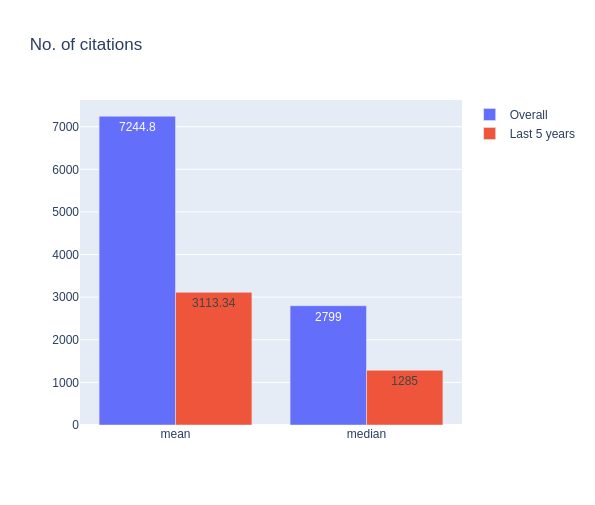
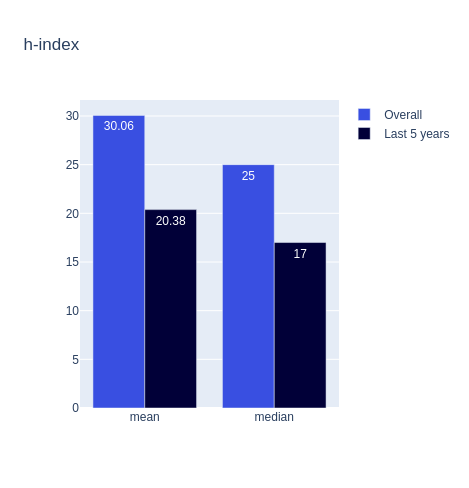
Redo plots

Changed region(s): [[0.0896, 0.1844, 0.9851, 0.8914], [0.0299, 0.0615, 0.2388, 0.123]]

diff --git a/data_statistics/compute_statistics.py b/data_statistics/compute_statistics.py
@@ -2,6 +2,7 @@ import numpy as np
 import pandas as pd
 import json
 import plotly.graph_objects as go
+from plotly.subplots import make_subplots
 
 file_count = 10
 
@@ -40,30 +41,25 @@ def compute_and_plot_statistics():
     for value in index_dict.values():
         word_frequencies.append(len(value))
 
+    colors = ['#394fe1', '#010038']
     # frequency distribution histogram
-    fig = go.Figure(data=[go.Histogram(x=word_frequencies)])
+    fig = go.Figure(data=[go.Histogram(x=word_frequencies, marker_color=colors[0])])
     fig.update_layout(title_text='No. of words with frequency k as a function of k', xaxis_title='k', yaxis_title='no. of words with frequency k')
     fig.show()
 
-    # pie chart 1
-    labels = ['Affiliation provided', 'Affiliation not provided']
+    # pie charts
+    fig = make_subplots(rows=1, cols=3, specs=[[{'type':'domain'}, {'type':'domain'}, {'type':'domain'}]], 
+                        subplot_titles=['Affiliation provided?', 'Email verified?', 'Homepage provided?'])
+    labels = ['Yes', 'No']
+    # pie 1
     values = [stats['total_affiliation_count'], stats['total_prof_count']-stats['total_affiliation_count']]
-    fig = go.Figure(data=[go.Pie(labels=labels, textinfo='value+percent', values=values, hole=.3)])
-    fig.update_layout(title_text='Percentage of professors who provided affiliation')
-    fig.show()
-
-    # pie chart 2
-    labels = ['Email verified', 'Email not verified']
+    fig.add_trace(go.Pie(labels=labels, textinfo='value+percent', values=values, hole=.3, marker_colors=colors, name='Affiliation provided?'), 1, 1)
+    # pie 2
     values = [stats['total_verified_count'], stats['total_prof_count']-stats['total_verified_count']]
-    fig = go.Figure(data=[go.Pie(labels=labels, textinfo='value+percent', values=values, hole=.3)])
-    fig.update_layout(title_text='Percentage of professors with email verified accounts')
-    fig.show()
-
-    # pie chart 3
-    labels = ['Homepage provided', 'Homepage not provided']
+    fig.add_trace(go.Pie(labels=labels, textinfo='value+percent', values=values, hole=.3, marker_colors=colors, name='Email verified?'), 1, 2)
+    # pie 3
     values = [stats['total_homepage_count'], stats['total_prof_count']-stats['total_homepage_count']]
-    fig = go.Figure(data=[go.Pie(labels=labels, textinfo='value+percent', values=values, hole=.3)])
-    fig.update_layout(title_text='Percentage of professors who provided homepage')
+    fig.add_trace(go.Pie(labels=labels, textinfo='value+percent', values=values, hole=.3, marker_colors=colors, name='Homepage provided?'), 1, 3)
     fig.show()
 
     # bar chart 1
@@ -71,8 +67,8 @@ def compute_and_plot_statistics():
     y_1 = [stats['cit_mean'], stats['cit_median']]
     y_2 = [stats['cit_5_mean'], stats['cit_5_median']]
     fig = go.Figure(data=
-            [go.Bar(name='Overall', x=statistic, y=y_1, text=y_1, textposition='auto'),
-            go.Bar(name='Last 5 years', x=statistic, y=y_2, text=y_2, textposition='auto')
+            [go.Bar(name='Overall', x=statistic, y=y_1, text=y_1, textposition='auto', marker_color=colors[0]),
+            go.Bar(name='Last 5 years', x=statistic, y=y_2, text=y_2, textposition='auto', marker_color=colors[1])
             ])
     fig.update_layout(title_text='No. of citations', barmode='group')
     fig.show()
@@ -81,8 +77,8 @@ def compute_and_plot_statistics():
     y_1 = [stats['h_ind_mean'], stats['h_ind_median']]
     y_2 = [stats['h_ind_5_mean'], stats['h_ind_5_median']]
     fig = go.Figure(data=
-            [go.Bar(name='Overall', x=statistic, y=y_1, text=y_1, textposition='auto'),
-            go.Bar(name='Last 5 years', x=statistic, y=y_2, text=y_2, textposition='auto')
+            [go.Bar(name='Overall', x=statistic, y=y_1, text=y_1, textposition='auto', marker_color=colors[0]),
+            go.Bar(name='Last 5 years', x=statistic, y=y_2, text=y_2, textposition='auto', marker_color=colors[1])
             ])
     fig.update_layout(title_text='h-index', barmode='group')
     fig.show()
@@ -91,8 +87,8 @@ def compute_and_plot_statistics():
     y_1 = [stats['i_ind_mean'], stats['i_ind_median']]
     y_2 = [stats['i_ind_5_mean'], stats['i_ind_5_median']]
     fig = go.Figure(data=
-            [go.Bar(name='Overall', x=statistic, y=y_1, text=y_1, textposition='auto'),
-            go.Bar(name='Last 5 years', x=statistic, y=y_2, text=y_2, textposition='auto')
+            [go.Bar(name='Overall', x=statistic, y=y_1, text=y_1, textposition='auto', marker_color=colors[0]),
+            go.Bar(name='Last 5 years', x=statistic, y=y_2, text=y_2, textposition='auto', marker_color=colors[1])
             ])
     fig.update_layout(title_text='i10-index', barmode='group')
     fig.show()

diff --git a/evaluation/evaluate.py b/evaluation/evaluate.py
@@ -224,15 +224,15 @@ for key in recallrate:
 query_and_method = ['Prof Name, Boolean', 'Prof Name, Phrase', 'Prof Affiliation, Boolean', 'Prof Affiliation, Phrase', 'Prof Paper, Boolean', 'Prof Paper, Phrase', 'Prof Paper, TF-IDF']
 ranks_value = [find_median(ranks['prof-name-boolean-retrieval']), find_median(ranks['prof-name-phrase-retrieval']), find_median(ranks['prof-affiliation-boolean-retrieval']), find_median(ranks['prof-affiliation-phrase-retrieval']), find_median(ranks['prof-paper-boolean-retrieval']), find_median(ranks['prof-paper-phrase-retrieval']), find_median(ranks['prof-paper-tf-idf'])]
 plt.figure(0)
-plt.bar(query_and_method, ranks_value, color="mediumpurple")
+plt.bar(query_and_method, ranks_value, color='#394fe1')
 plt.ylabel('Median Rank')
 plt.title('Median rank evaluation for '+str(number_of_professors_to_test)+' ground truths \n Rank represents the position at which desired result appears in search results')
 plt.xlabel('Search Query and Method Used')
 plt.xticks(fontsize=5,rotation=7)
 for i, v in enumerate(ranks_value):
     plt.annotate(str(v), xy=(i,v), xytext=(-7,7), textcoords='offset points')
-plt.savefig('median_rank.png', dpi=300)
-
+# plt.savefig('median_rank.png', dpi=300)
+plt.show()
 
 
 # Plotting the recall rate
@@ -244,15 +244,15 @@ recall_rate_10 = [recallrate['prof-name-boolean-retrieval-recall-rate-10'],recal
 x_1 = [2*i for i in range(len(recall_rate_5))]
 x_2 = [x + 2*width for x in x_1]
 plt.figure(1)
-plt.bar(x_1, recall_rate_5, color ='mediumpurple', width = 0.5, edgecolor ='white', label ='Recall Rate @ 5')
-plt.bar(x_2, recall_rate_10, color ='darkblue', width = 0.5, edgecolor ='white', label ='Recall Rate @ 10')
+plt.bar(x_1, recall_rate_5, color ='#394fe1', width = 0.5, edgecolor ='white', label ='Recall Rate @ 5')
+plt.bar(x_2, recall_rate_10, color ='#010038', width = 0.5, edgecolor ='white', label ='Recall Rate @ 10')
 plt.ylabel('Recall Rate')
 plt.title('Recall rate evaluation for '+str(number_of_professors_to_test)+' ground truths \n Recall rate (R@X) represents % of time desired results appeared in top X')
 plt.xlabel('Search Query and Method Used')
 plt.xticks([2*i + width for i in range(len(recall_rate_5))],query_and_method, fontsize=5, rotation=7)
 plt.legend(['Recall Rate @ 5', 'Recall Rate @ 10'])
-plt.savefig('recall_rate.png', dpi=300)
-
+# plt.savefig('recall_rate.png', dpi=300)
+plt.show()
 
 # Plotting the Average Query Time
 
@@ -267,11 +267,12 @@ def get_time_in_ms(time_in_s):
 query_and_method = ['Prof Name, Boolean', 'Prof Name, Phrase', 'Prof Affiliation, Boolean', 'Prof Affiliation, Phrase', 'Prof Paper, Boolean', 'Prof Paper, Phrase', 'Prof Paper, TF-IDF']
 avg_time_value = [find_mean(avgquerytime['prof-name-boolean-retrieval']), find_mean(avgquerytime['prof-name-phrase-retrieval']), find_mean(avgquerytime['prof-affiliation-boolean-retrieval']), find_mean(avgquerytime['prof-affiliation-phrase-retrieval']), find_mean(avgquerytime['prof-paper-boolean-retrieval']), find_mean(avgquerytime['prof-paper-phrase-retrieval']), find_mean(avgquerytime['prof-paper-tf-idf'])]
 plt.figure(2)
-plt.plot(query_and_method, avg_time_value, 'ro',color="mediumpurple")
+plt.plot(query_and_method, avg_time_value, 'ro',color='#394fe1')
 plt.ylabel('Average Query Time (in ms)')
 plt.title('Average query time for '+str(number_of_professors_to_test)+' searches')
 plt.xlabel('Search Query and Method Used')
 plt.xticks(fontsize=5,rotation=7)
 for i, v in enumerate(avg_time_value):
     plt.annotate(get_time_in_ms(v), xy=(i,v), xytext=(-7,7), textcoords='offset points')
-plt.savefig('average_query_time.png', dpi=300)
+# plt.savefig('average_query_time.png', dpi=300)
+plt.show()
